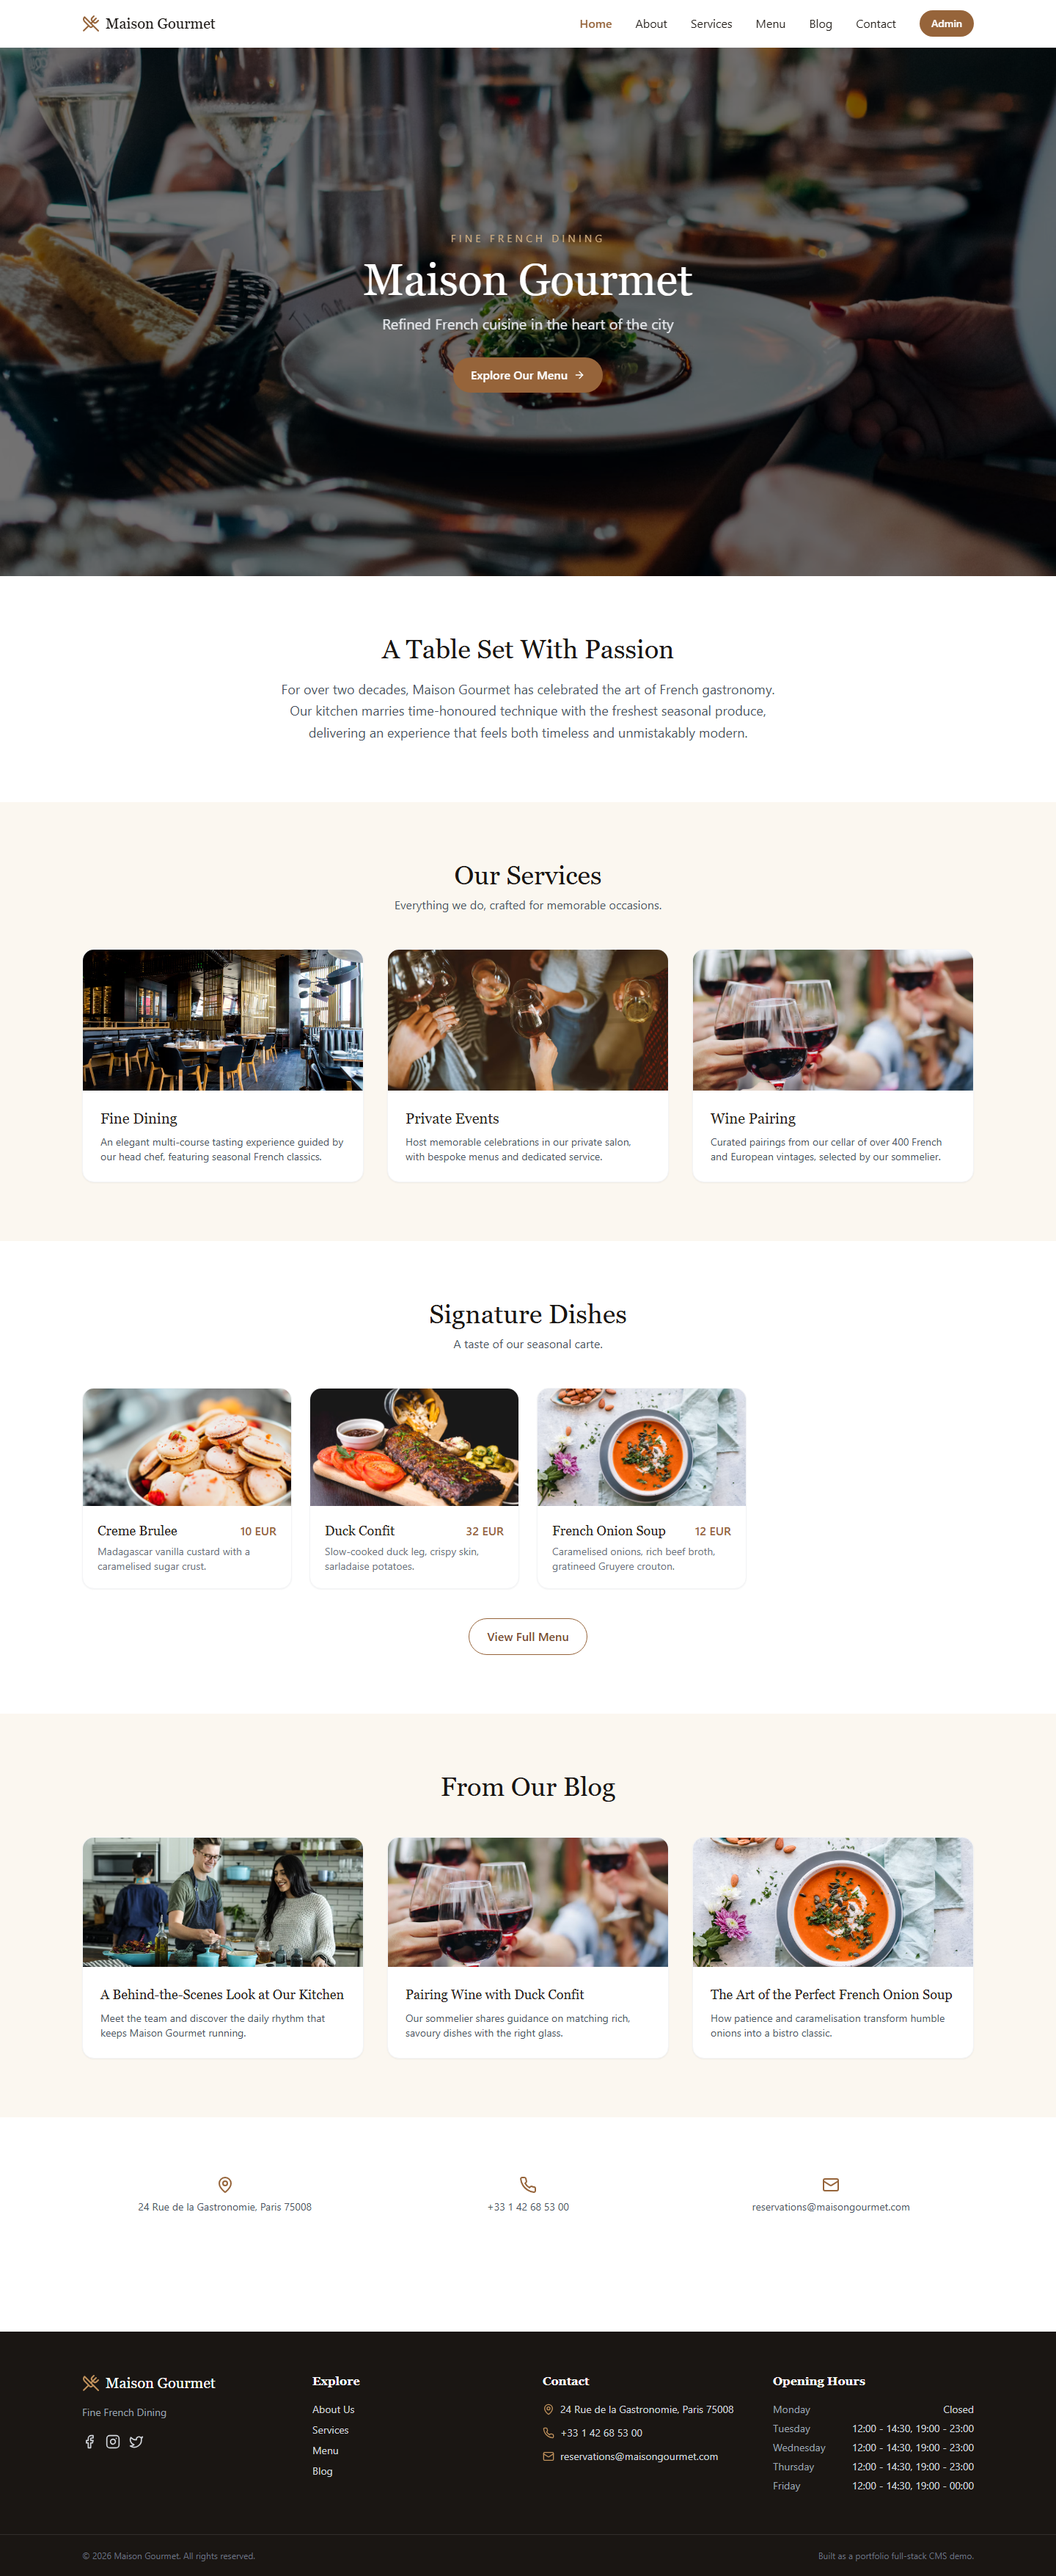
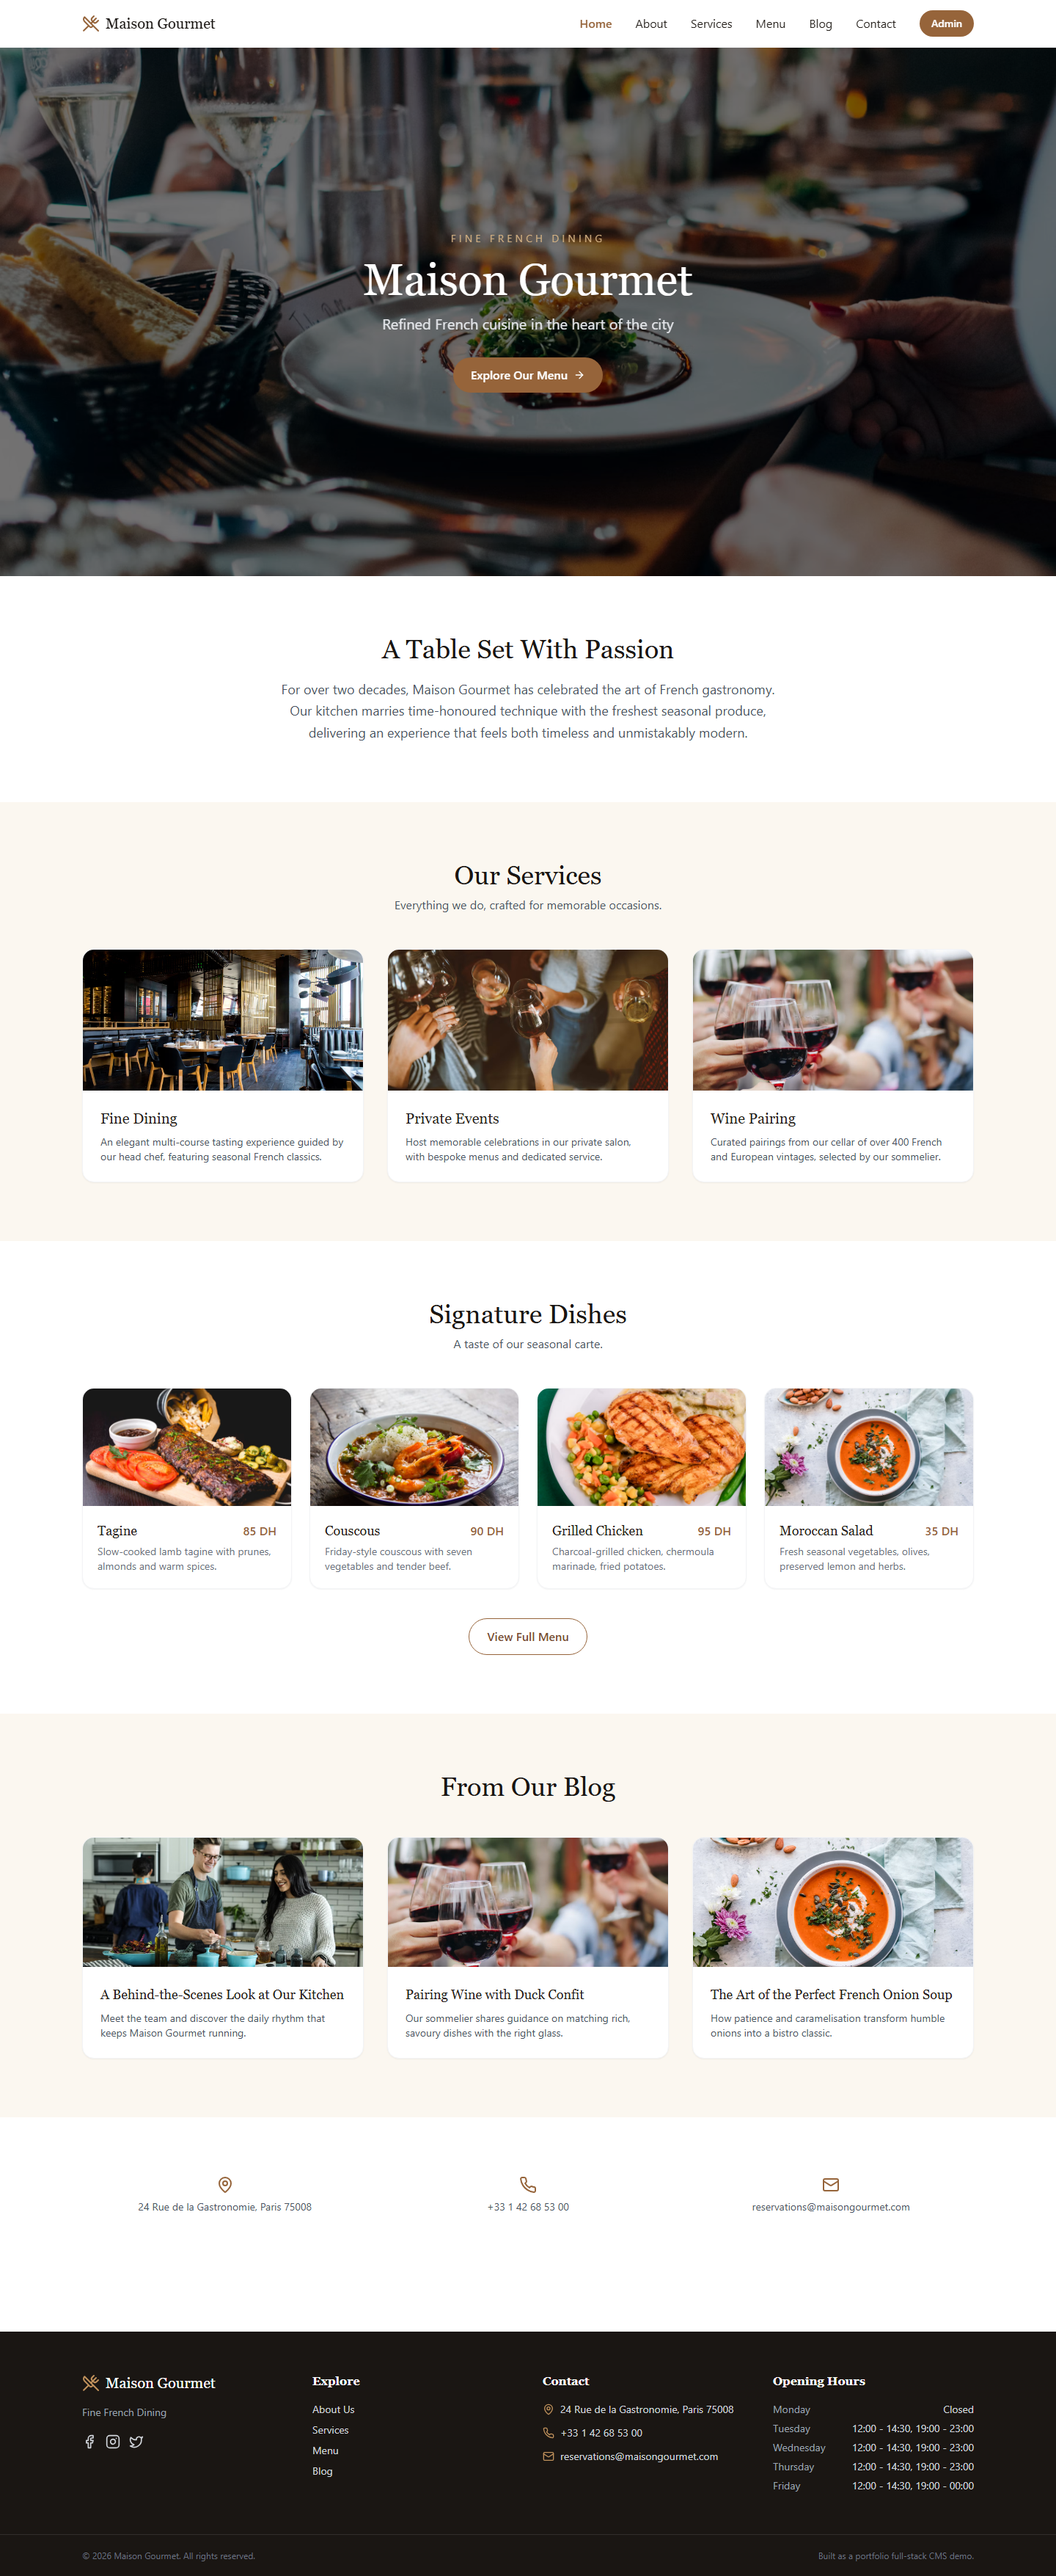
docs: update screenshots and documentation for MAD currency

Changed region(s): [[0.0625, 0.5279, 0.9375, 0.6211]]

diff --git a/README.fr.md b/README.fr.md
@@ -74,6 +74,15 @@ Les modifications enregistrées dans l'administration apparaissent immédiatemen
 
 > **Devise :** tous les prix sont stockés sous forme de nombres dans MongoDB et affichés en **dirham marocain (MAD)**, au format `120 DH`, via un utilitaire de formatage réutilisable (`frontend/src/utils/currency.js`).
 
+Exemples de prix du menu de démonstration (dirham marocain) :
+
+| Plat | Prix | | Plat | Prix |
+|---|---|---|---|---|
+| Thé marocain | 15 DH | | Couscous | 90 DH |
+| Café | 20 DH | | Poulet grillé | 95 DH |
+| Jus frais | 25 DH | | Pâtisserie marocaine | 30 DH |
+| Salade marocaine | 35 DH | | Tagine | 85 DH |
+
 ## Architecture
 
 ```

diff --git a/README.md b/README.md
@@ -74,6 +74,15 @@ Changes saved in the admin panel appear on the public website immediately (publi
 
 > **Currency:** all prices are stored as plain numbers in MongoDB and displayed in **Moroccan Dirham (MAD)**, formatted as `120 DH` via a reusable frontend formatting utility (`frontend/src/utils/currency.js`).
 
+Example demo menu prices (Moroccan Dirham):
+
+| Item | Price | | Item | Price |
+|---|---|---|---|---|
+| Moroccan Tea | 15 DH | | Couscous | 90 DH |
+| Coffee | 20 DH | | Grilled Chicken | 95 DH |
+| Fresh Juice | 25 DH | | Moroccan Pastry Dessert | 30 DH |
+| Moroccan Salad | 35 DH | | Tagine | 85 DH |
+
 ## Architecture
 
 ```
